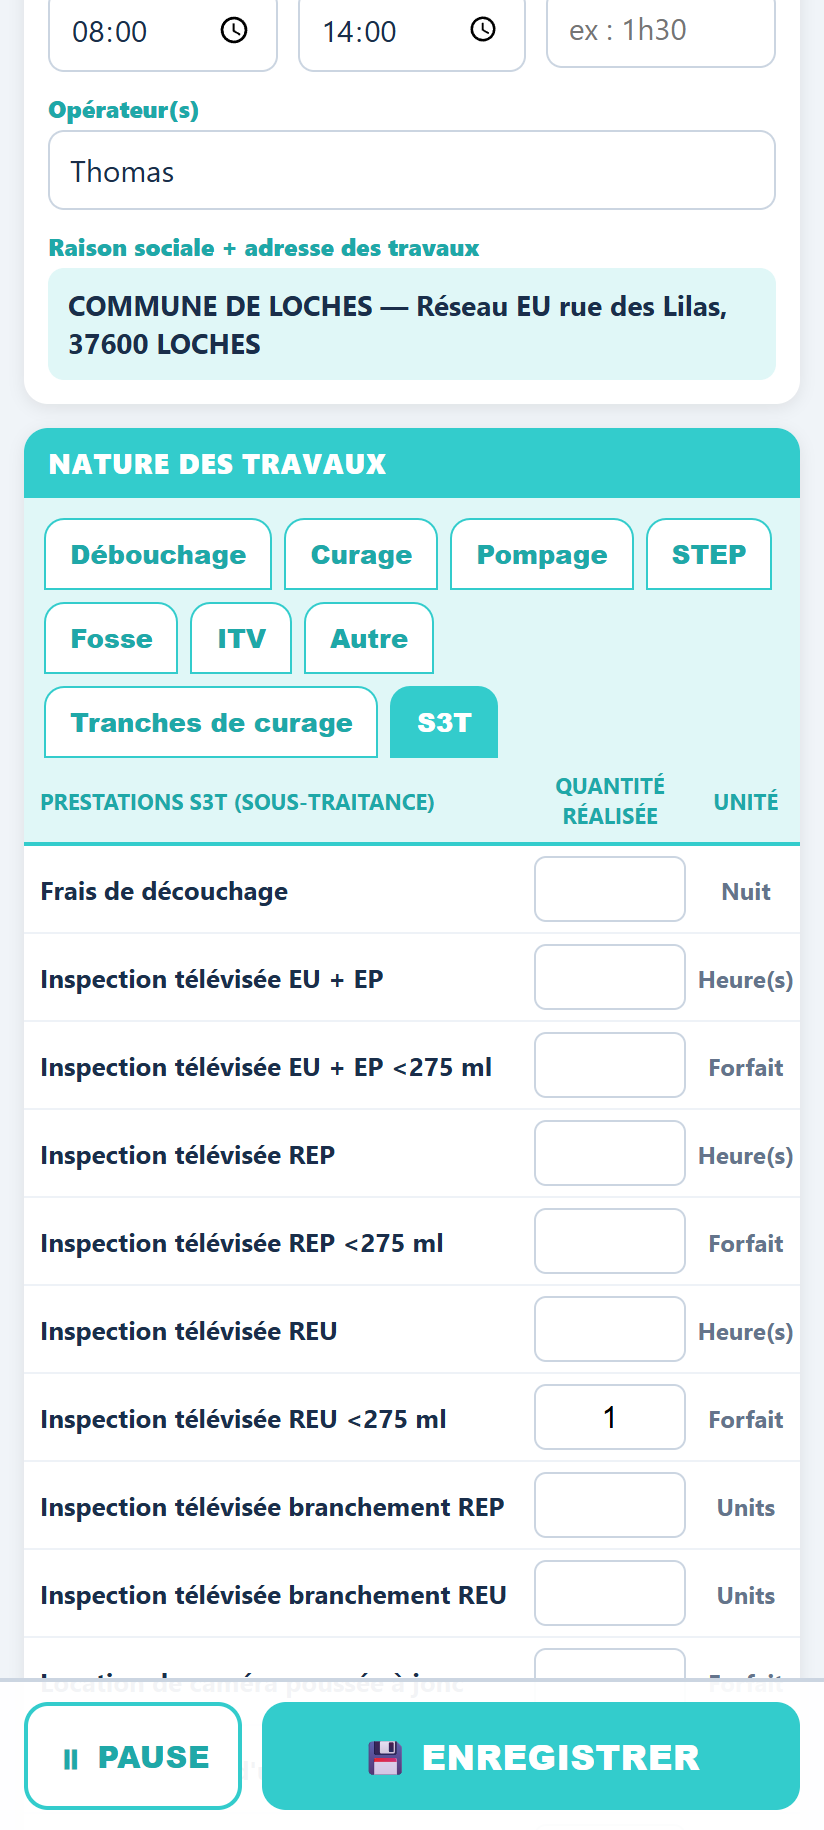
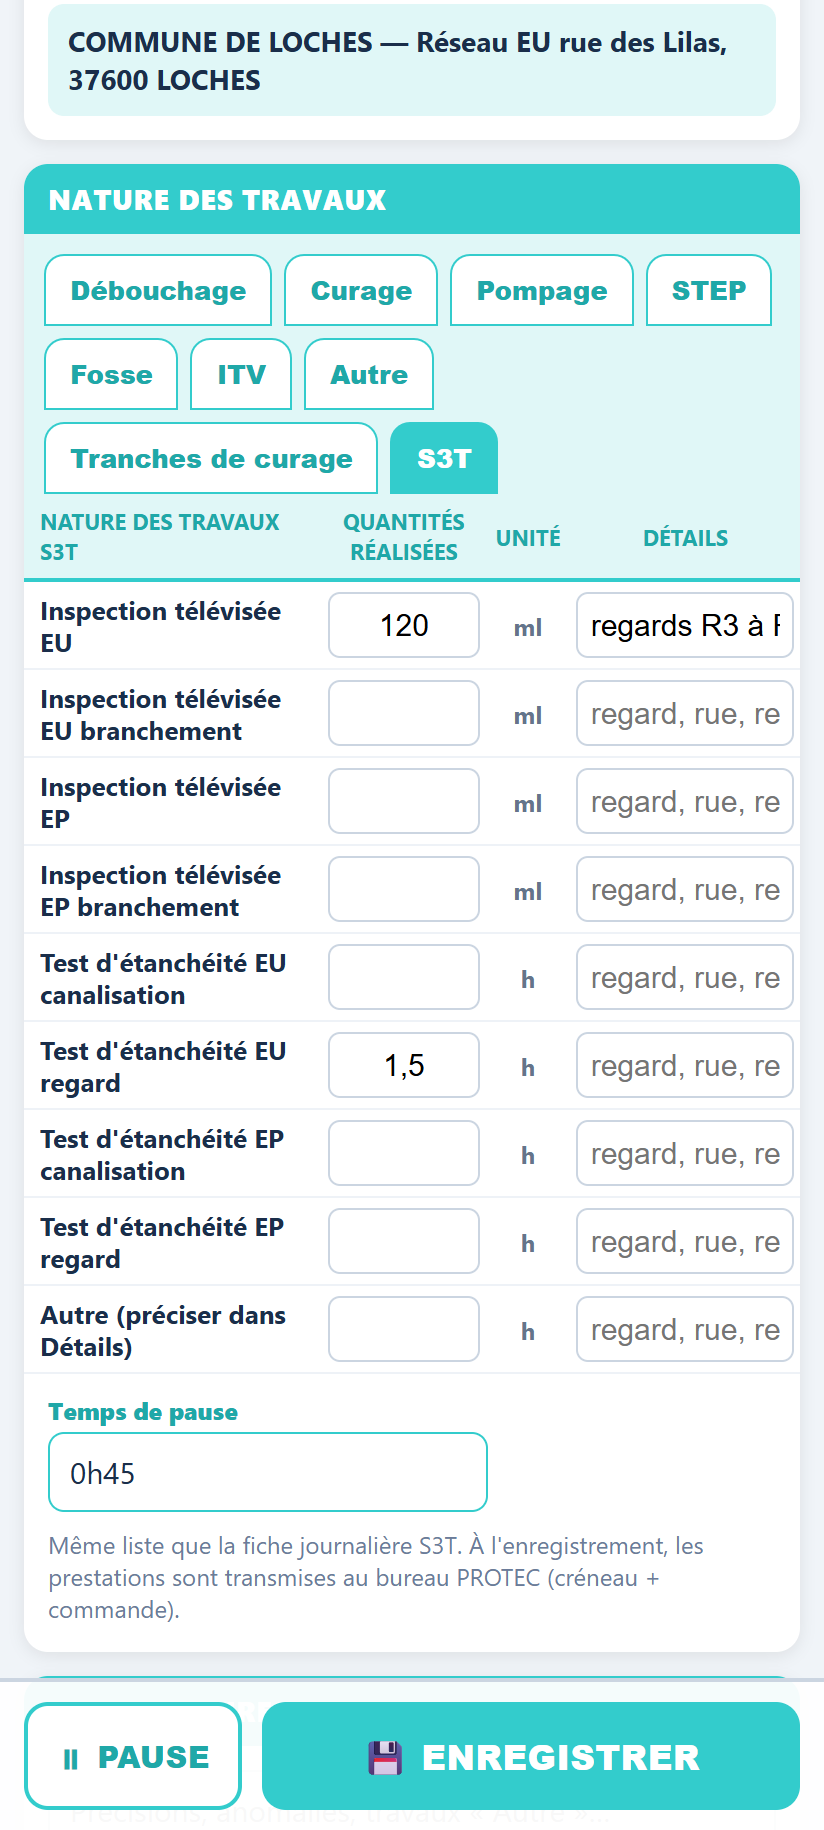
Docs : procédure S3T alignée sur la fiche journalière papier, captures refaites

diff --git a/docs/build_procedure_s3t.py b/docs/build_procedure_s3t.py
@@ -61,24 +61,24 @@ doc = SimpleDocTemplate(SORTIE, pagesize=A4, leftMargin=16 * mm, rightMargin=16 
                         title="Prestations S3T sur la fiche de fin de travaux", author="PROTEC")
 s = [Paragraph("Prestations S3T sur la fiche de fin de travaux", H1),
      Paragraph("Sous-traitance S3T pour PROTEC : saisie par Thomas sur le téléphone, suivi par le bureau. Version du 19/10/2026.", SMALL), Spacer(1, 6)]
-s.append(Paragraph("Quand S3T intervient pour un client PROTEC (inspection télévisée, prise en charge du fourgon, location de caméra…), "
-                   "Thomas remplit la fiche de fin de travaux habituelle et note les prestations S3T dans l'onglet <b>S3T</b>. "
+s.append(Paragraph("Quand S3T intervient pour un client PROTEC (inspection télévisée, test d'étanchéité), "
+                   "Thomas remplit la fiche de fin de travaux habituelle et note les prestations S3T dans l'onglet <b>S3T</b>, qui reprend la fiche journalière papier de S3T. "
                    "Ces prestations sont transmises au bureau PROTEC, qui facture le client ; S3T facture PROTEC comme aujourd'hui, à partir des prestations notées.", NOTE))
 
 s.append(Paragraph("Côté Thomas : remplir l'onglet S3T", H2))
 s.extend(etapes(["Ouvrir <b>Ma tournée</b> sur le téléphone (lien habituel), puis la fiche de fin de travaux de l'intervention.",
                  "Remplir la fiche comme d'habitude : véhicule, heures d'arrivée et de départ, trajet, opérateurs.",
-                 "Appuyer sur l'onglet <b>S3T</b> (dernier onglet du bloc « Nature des travaux »). La liste reprend les articles de S3T : inspections télévisées REU, REP ou EU + EP, forfaits « moins de 275 ml », branchements, prise en charge d'un fourgon, rapport d'ITV, location de caméra, découchage…",
-                 "Saisir la <b>quantité réalisée</b> en face de chaque prestation faite, dans l'unité indiquée (forfait, heure, unité, nuit). Laisser vide ce qui n'a pas été fait.",
-                 "Ligne <b>Précisions S3T</b> : le matériel ou une remarque utile pour la facturation (caméra utilisée, regard, longueur…).",
+                 "Appuyer sur l'onglet <b>S3T</b> (dernier onglet du bloc « Nature des travaux »). La liste est celle de la fiche papier : inspection télévisée EU, EU branchement, EP, EP branchement (en ml), tests d'étanchéité EU et EP, canalisation et regard (en heures), et « Autre ».",
+                 "Saisir la <b>quantité réalisée</b> en face de chaque nature de travaux faite, dans l'unité indiquée (ml ou h), et le <b>détail</b> utile sur la même ligne (regards, rue, remarque). Laisser vide ce qui n'a pas été fait. Pour « Autre », préciser dans Détails.",
+                 "Champ <b>Temps de pause</b> sous la liste, comme sur la fiche papier.",
                  "Signature et photos comme d'habitude, puis <b>ENREGISTRER</b>. Le bandeau vert confirme : « Prestations S3T transmises au bureau ».",
                  "<b>PAUSE</b> garde les saisies sans rien transmettre au bureau tant que la fiche n'est pas enregistrée."]))
-s.extend(deux_captures('1_onglet_s3t.png', "L'onglet S3T : quantités en face des prestations réalisées, puis précisions.",
+s.extend(deux_captures('1_onglet_s3t.png', "L'onglet S3T : quantités et détails en face des natures de travaux, puis temps de pause.",
                        '2_bandeau_s3t.png', "Après ENREGISTRER : le bandeau confirme la transmission au bureau."))
 s.append(Paragraph("Si la fiche est modifiée et enregistrée à nouveau, une nouvelle note est posée sur la commande avec les quantités à jour : c'est la dernière note qui compte.", NOTE))
 
 s.append(Paragraph("Côté bureau PROTEC : où retrouver les prestations", H2))
-s.extend(etapes(["<b>Sur le créneau du planning</b> : le chatter du créneau reçoit le résumé de la fiche avec un tableau « Prestations S3T (sous-traitant) » (prestation, quantité) et les précisions.",
+s.extend(etapes(["<b>Sur le créneau du planning</b> : le chatter du créneau reçoit le résumé de la fiche avec un tableau « Prestations S3T (sous-traitant) » (nature des travaux, quantité, détails) et le temps de pause.",
                  "<b>Sur la commande PROTEC</b> (le devis ou bon de commande client lié au créneau) : une note « Prestations S3T (sous-traitant) » reprend le même tableau. C'est le point de départ pour facturer le client PROTEC.",
                  "<b>Sur le rapport d'intervention client</b> : les prestations S3T figurent dans « Prestations réalisées », sans mention du sous-traitant.",
                  "<b>Côté S3T</b> : aucun devis n'est généré. S3T facture PROTEC comme aujourd'hui, en reprenant les prestations notées sur la commande PROTEC ; la facture arrive dans PROTEC par la facturation électronique."]))
@@ -87,9 +87,9 @@ s.extend(capture('4_chatter_creneau.png', "Le résumé de la fiche dans le chatt
 s.append(Paragraph("Points d'attention", H2))
 s.append(tableau([
     ["Situation", "Explication", "Que faire"],
-    ["L'onglet S3T affiche « Articles S3T inaccessibles »", "Odoo n'a pas répondu, ou le compte du relais n'a plus accès à la société S3T.", "Réessayer un peu plus tard ; si cela persiste, prévenir Xavier."],
+    ["L'onglet S3T n'apparaît pas", "L'intervention n'est pas affectée à un employé portant l'étiquette RH « S3T ».", "Affecter Thomas au créneau, ou poser l'étiquette « S3T » sur l'employé concerné dans Employés."],
     ["Le bandeau indique « ERREUR » après S3T", "La fiche est bien enregistrée, mais la note sur la commande PROTEC n'a pas pu être posée.", "Prévenir le bureau : les prestations restent lisibles dans le chatter du créneau."],
-    ["Plusieurs articles portent le même nom dans l'onglet (ex. « Prise en charge d'un fourgon »)", "Le catalogue S3T contient des doublons d'articles.", "Prendre le premier ; faire nettoyer le catalogue S3T (archiver les doublons) pour que la liste soit nette."],
+    ["Une prestation ne figure pas dans la liste", "La liste est fixe, identique à la fiche papier.", "Utiliser la ligne « Autre » avec le détail ; demander à Xavier d'ajouter une ligne si elle revient souvent."],
     ["Intervention sans commande PROTEC", "Le créneau n'a pas de référence de commande.", "Les prestations restent dans le chatter du créneau ; seule la note sur la commande PROTEC manque."],
 ], [52 * mm, 62 * mm, 64 * mm]))
 doc.build(s)
